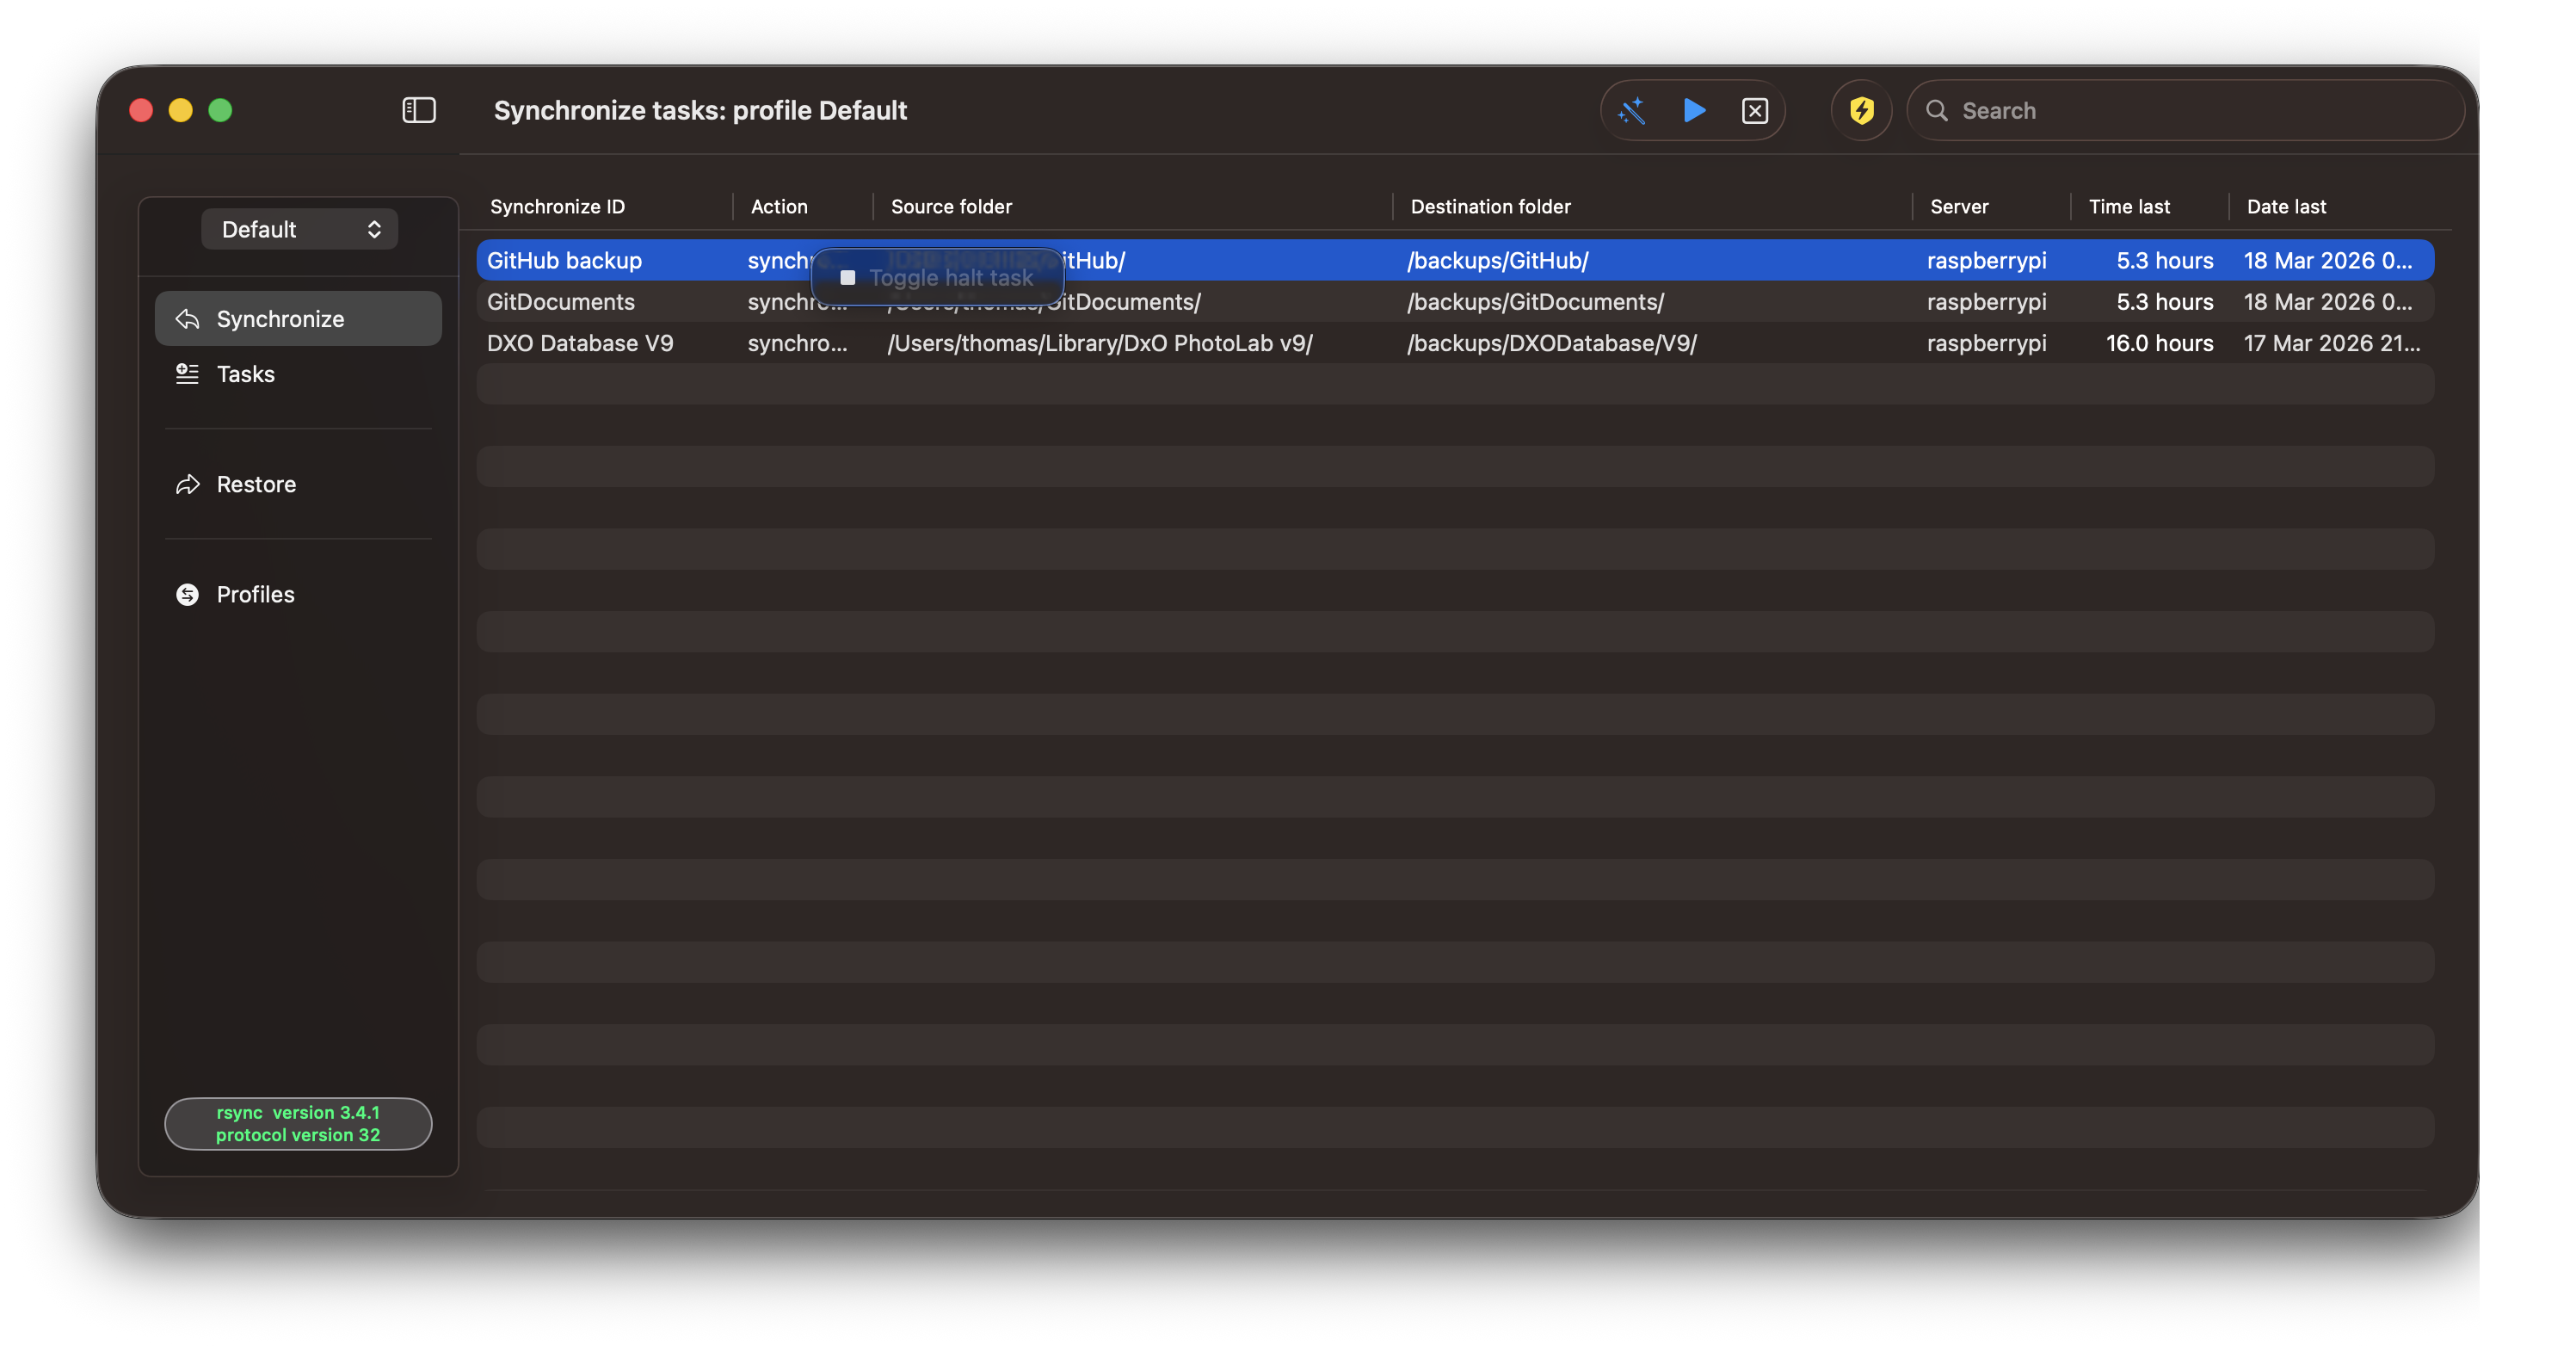
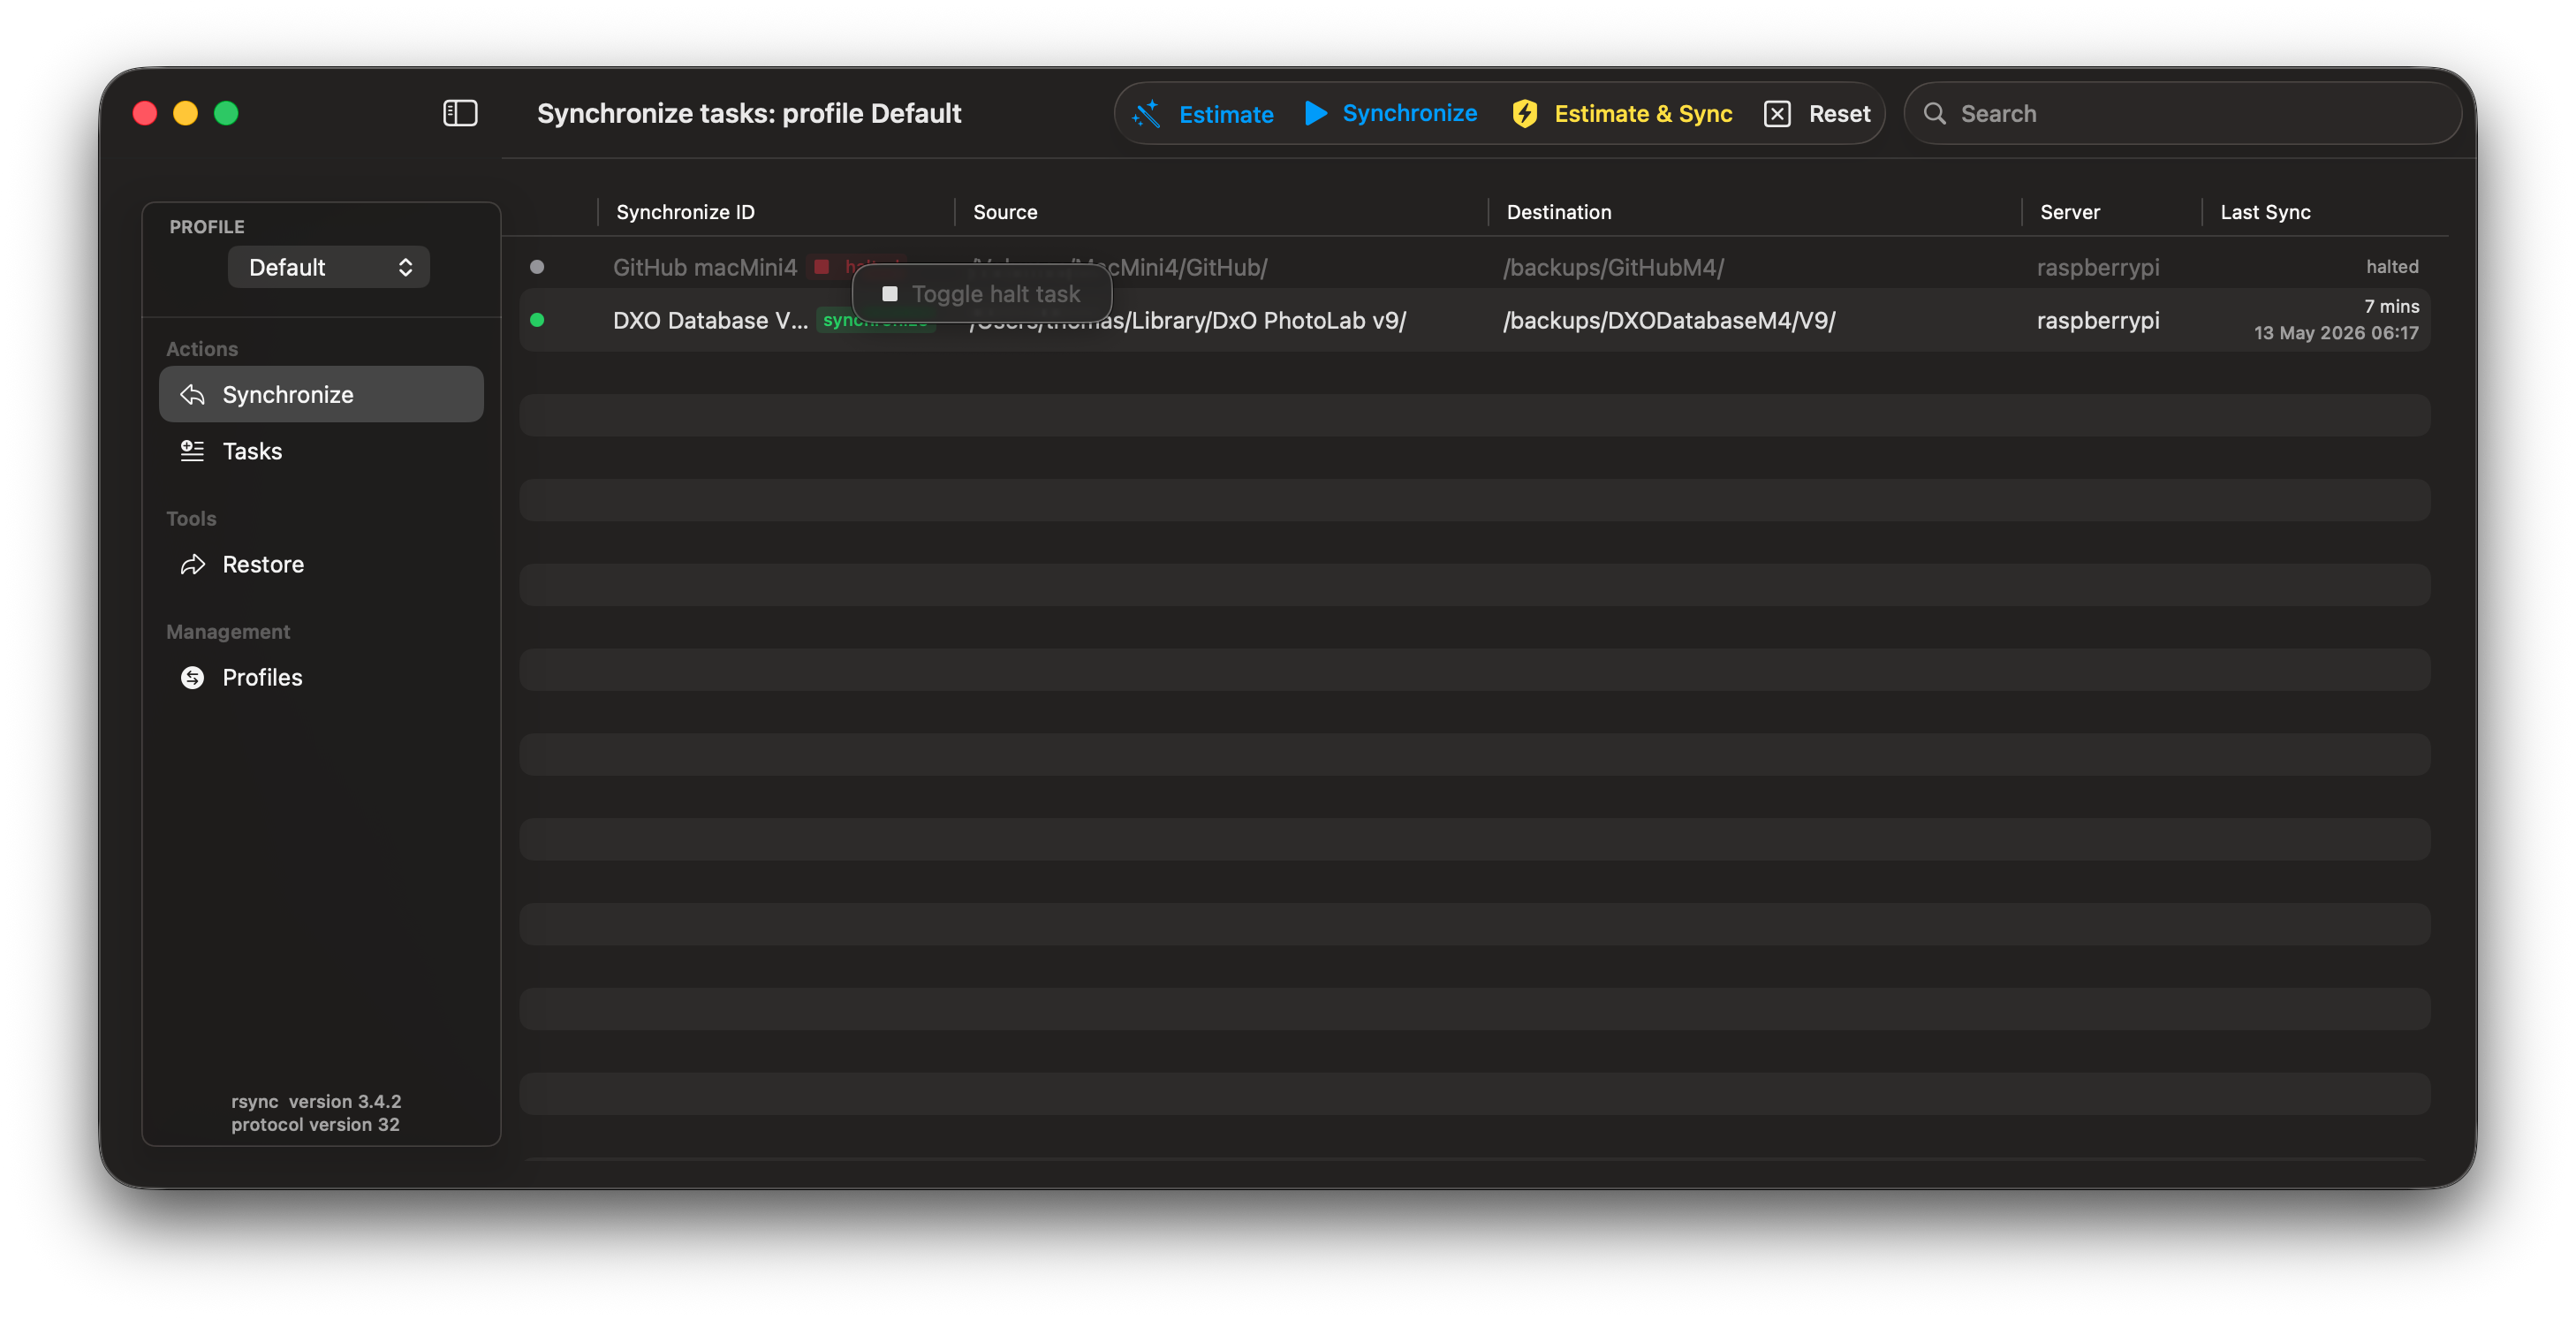
update

diff --git a/content/en/docs/settings/log-settings.md b/content/en/docs/settings/log-settings.md
@@ -20,7 +20,7 @@ After changing a setting, save the changes to keep them next time you use RsyncU
 - default: on
 - a summary of each synchronization is added to the log records; view "Log Listings" from the Sidebar
 
-**No time delay Synchronize URL-actions**
+**Skip time delay for URL-triggered sync**
 
 - default: off
 - if on, estimated tasks triggered by URL-actions will synchronize without any chance to abort
@@ -35,28 +35,18 @@ After changing a setting, save the changes to keep them next time you use RsyncU
 - default: off
 - automatic profile selection when RsyncUI detects a new mount of a local attached disk
 
-**Always present the summarized estimate view**
+**Always show estimate summary**
 
 - default "on"
 - after an estimate, by selecting the Magic Wand on toolbar Synchronize task view, always present the summarized view
 
-**Hide Verify remote:**
-
-- default "on"
-- refer to section *"Verify remote"*, this is a kind of special function, default **not** enabled
-
-**Use two tables Inspector:**
-
-- applies to main Sidebar menu Tasks
-- utilize one or two tables to select Inspector for editing tasks and parameters
-
-**Silence missing stats**
+**Suppress missing stats warnings**
 
 - default: off
 - stats is the summarized output from rsync; if on, RsyncUI notifies if stats are missing after termination
 - in version 2.8.4, missing stats are *unlikely* due to the new *RsyncProcessStreaming*
 
-**Validate arguments**
+**Validate rsync arguments**
 
 - default: on - validates default parameters
 - if the `--delete` parameter is included in the task configuration, the validation checks its presence or absence based on the task's state, which specifies whether a delete operation is required
@@ -65,7 +55,7 @@ After changing a setting, save the changes to keep them next time you use RsyncU
   - the `--compress` parameter is only applicable for remote tasks
   - if the user requests an estimate, the validation checks that the `--dry-run` parameter is included within the arguments
 
-**Confirm Execute:**
+**Confirm execute:**
 
 - see below
 